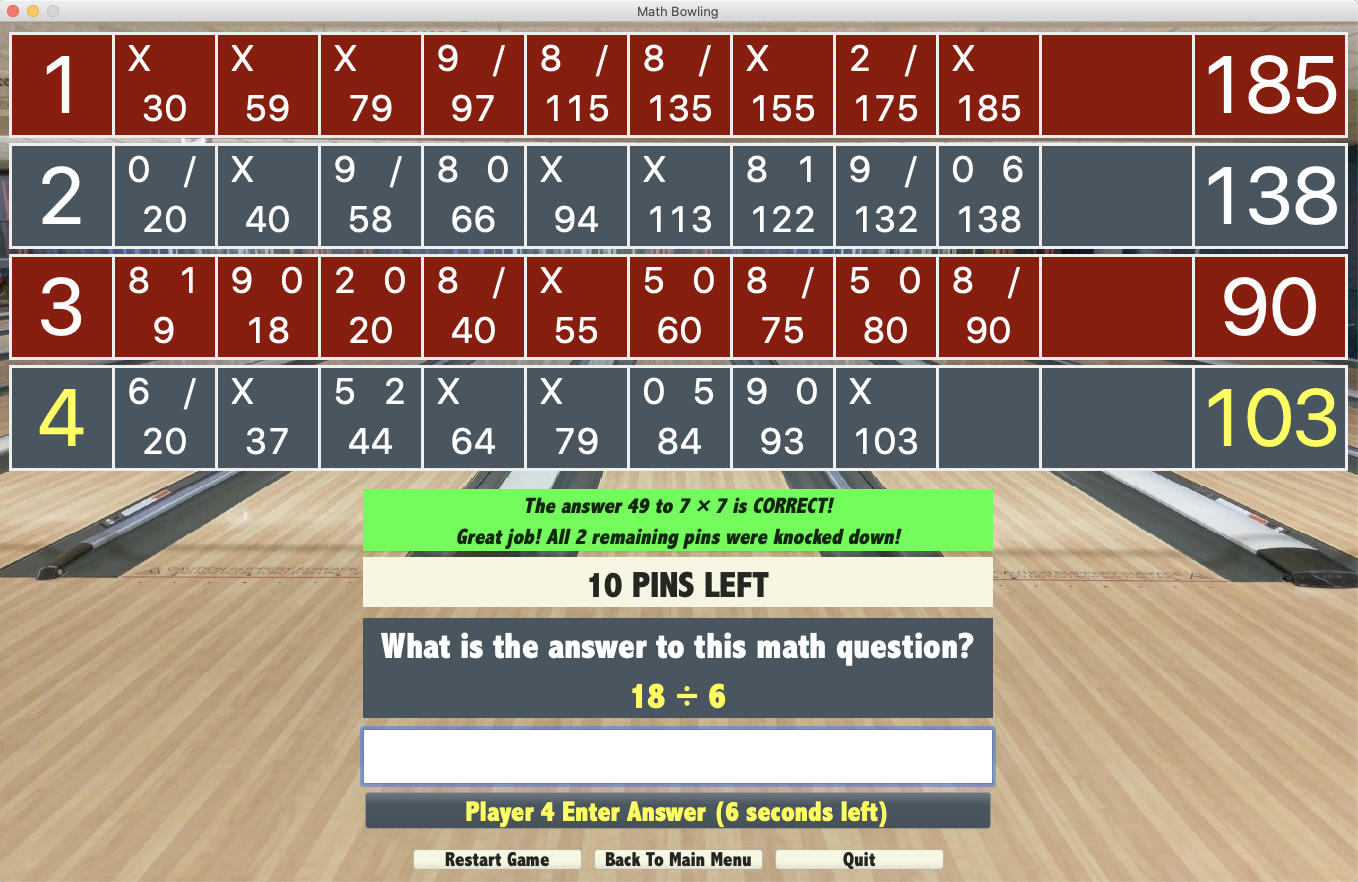
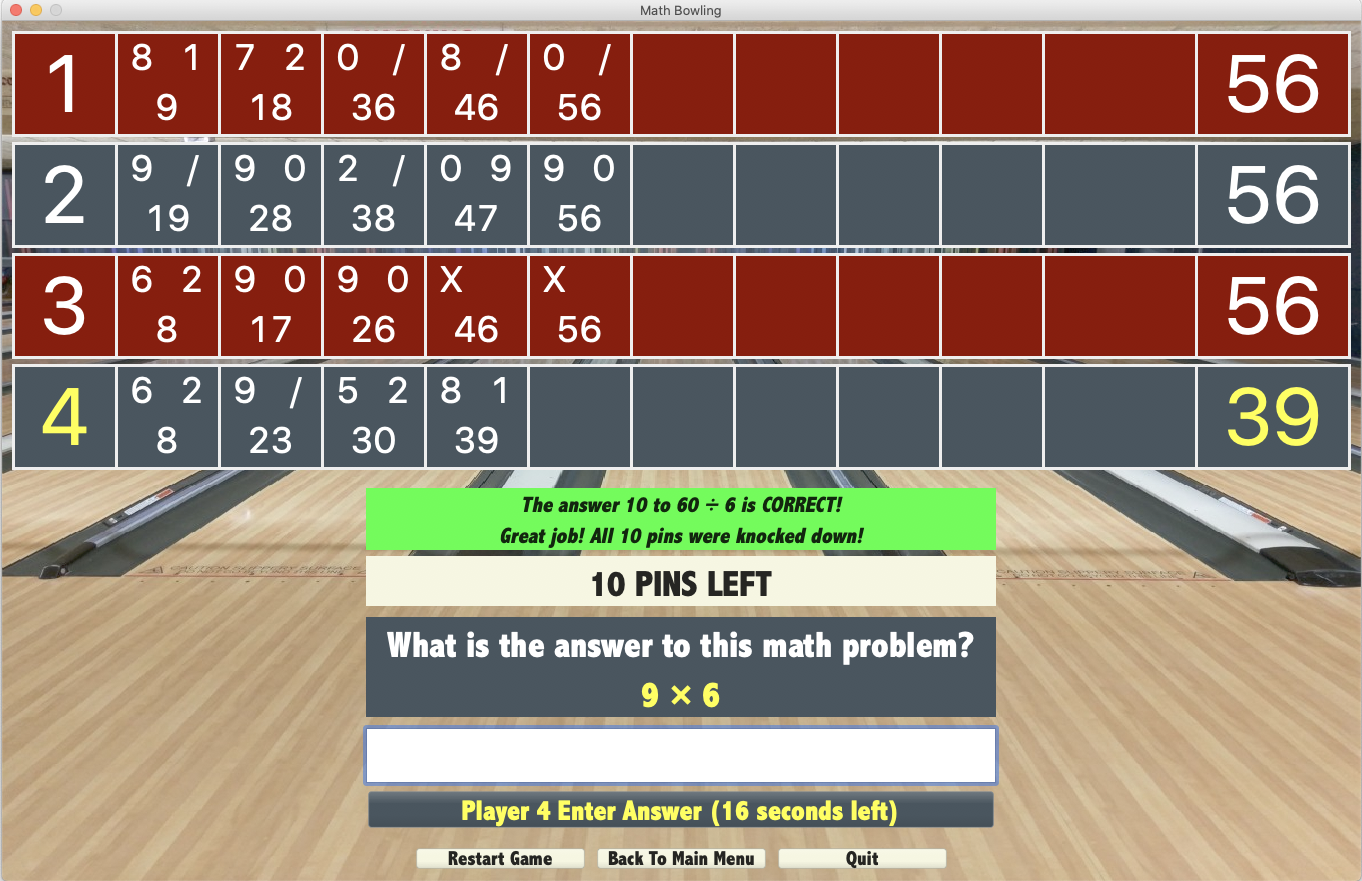
Updated wording of question to problem and extracted game rules into an HTML file since it is formatted document content

diff --git a/docs/game_rules.html b/docs/game_rules.html
@@ -1,0 +1,50 @@
+<!doctype html>
+<html>
+  <head>
+    <style>
+      body {
+        background-color: beige;
+        font-family: "Abadi MT Condensed Extra Bold";
+        color: rgb(128, 0, 0);
+        padding: 20px 40px;
+        background: radial-gradient(circle, rgba(236,205,136,1) 70%, rgba(255,255,192,1) 100%);
+        text-align: center;
+      }
+      h1 {
+        font-size: 60px;
+        margin: 0;
+      }
+      h2 {
+        font-size: 40px;
+        margin: 0;
+      }
+      ol {
+        text-align: justify;
+        font-size: 1.3em;
+        color: black;
+      }
+      li {
+        margin-bottom: 10px;
+      }
+    </style>
+  </head>
+  <body>
+    <h1>Math Bowling</h1>
+    <h2>Game Rules</h2>
+    <ol>
+      <li>On a player's turn, a math problem must be answered to initiate a bowling roll.</li>
+      <li>A player must answer math problems until filling a frame just like bowling.</li>
+      <li>Players must fill all 10 frames just like bowling to finish the game.</li>
+      <li>A player has 30 seconds to answer a math problem.</li>
+      <li>If a player does not answer on time, whatever was entered is taken as the answer. If nothing was entered, then the answer is assumed to be 0.</li>
+      <li>If an answer is correct, the player gets the equivalent of knocking all remaining pins (a strike for 10, a spare for less than 10).</li>
+      <li>If an answer is within the number of remaining pins from the correct answer, then it is considered close. The player gets the equivalent of knocked pins for that answer (e.g. answering 3 or 5 to 2 + 2 gets all remaining pins minus 1). This makes answering the next math problem more challenging just like how the second roll is often more challenging in bowling.</li>
+      <li>If an answer is farther from the correct answer than number of remaining pins, then 0 is awarded.</li>
+      <li>Players with the highest score at the end win.</li>
+      <li>If all players have the same score at the end, it is a tie.</li>
+      <li>Players are distinguished by number.</li>
+      <li>The game may be played with one player only, in which case it is always that player's turn on every bowling roll (problem answer).</li>
+    </ol>
+    Copyright (c) 2019-2020 Andy Maleh.
+  </body>
+</html>

diff --git a/app/views/math_bowling/game_rules_dialog.rb b/app/views/math_bowling/game_rules_dialog.rb
@@ -7,55 +7,7 @@ class MathBowling
         text 'Game Rules'
         minimum_size 1000, 750
         browser {
-          text <<~MULTI_LINE
-          <style>
-          body {
-            background-color: beige;
-            font-family: "Abadi MT Condensed Extra Bold";
-            color: rgb(128, 0, 0);
-            padding: 20px 40px;
-            background: radial-gradient(circle, rgba(236,205,136,1) 70%, rgba(255,255,192,1) 100%);
-          }
-          h1, h2 {
-            text-align: center;
-          }
-          h1 {
-            font-size: 60px;
-            padding-bottom: 0;
-            margin-bottom; 0;
-          }
-          h2 {
-            margin: 0;
-            padding: 0;
-            font-size: 40px;
-            margin-top: -40px;
-          }
-          ol {
-            text-align: 'justify';
-            font-size: 1.3em;
-            color: black;
-          }
-          li {
-            margin-bottom: 10px
-          }
-          </style>
-          <h1>Math Bowling</h1>
-          <h2>Game Rules</h2>
-          <ol>
-            <li>On a player's turn, a math question must be answered to initiate a bowling roll</li>
-            <li>A player must answer math questions until filling a frame just like bowling.</li>
-            <li>Players must fill all 10 frames just like bowling to finish the game.</li>
-            <li>A player has 20 seconds to answer a question</li>
-            <li>If a player does not answer on time, whatever was entered is taken as the answer. If nothing was entered, then the answer is assumed to be 0</li>
-            <li>If an answer is correct, the player gets the equivalent of knocking all remaining pins (strike for 10, spare for less than 10)</li>
-            <li>If an answer is within the number of remaining pins from the correct answer, then it is considered close. The player gets the equivalent of knocked pins for that answer (e.g. answering 3 or 5 to 2 + 2 gets all remaining pins minus 1). This makes answering the next question more challenging just like in bowling</li>
-            <li>If an answer is farther from the correct answer than number of remaining pins, then 0 is awarded.</li>
-            <li>The player with the higher score at the end wins.</li>
-            <li>If both players have the same score at the end, it is a tie.</li>
-            <li>Players are distinguished by position and color.</li>
-            <li>The game may be played with one player only, in which case it is always that player's turn on every bowling roll (question answered).</li>
-          </ol>
-          MULTI_LINE
+          text File.read(File.join(APP_ROOT, 'docs', 'game_rules.html'))
         }
       }
     }

diff --git a/app/views/math_bowling/game_view.rb b/app/views/math_bowling/game_view.rb
@@ -218,7 +218,7 @@ class MathBowling
                 label(:center) {
                   background bind(self, :player_color, computed_by: "game.current_player.index")
                   foreground :white
-                  text "What is the answer to this math question?"
+                  text "What is the answer to this math problem?"
                   font @font
                   layout_data {
                     horizontal_alignment :fill

diff --git a/config/warble.rb b/config/warble.rb
@@ -13,7 +13,7 @@ Warbler::Config.new do |config|
   # config.features = %w(gemjar)
 
   # Application directories to be included in the webapp.
-  config.dirs = %w(app config db lib script bin images fonts sounds videos)
+  config.dirs = %w(app config db lib script bin docs images fonts sounds videos)
 
   # Additional files/directories to include, above those in config.dirs
   config.includes = FileList['LICENSE.txt', 'VERSION']

diff --git a/README.md b/README.md
@@ -2,7 +2,7 @@
 
 ![Math Bowling Screenshot](images/Math-Bowling-Screenshot.png)
 
-<span style="font-size: 1.9em; position: relative; top: 5px">[<img alt="Math Bowling Logo" src="images/math-bowling-logo.png" width="40" />Download Math Bowling 1.1.0 for Mac](https://www.dropbox.com/s/d8n1jrhb915r3f1/Math%20Bowling-1.1.0.dmg?dl=0)</span>
+<span style="font-size: 1.9em; position: relative; top: 5px">[<img alt="Math Bowling Logo" src="images/math-bowling-logo.png" width="40" />Download Math Bowling 1.1.0 for Mac](https://www.dropbox.com/s/d8n1jrhb915r3f1/Math%20Bowling-1.1.0.dmg?dl=1)</span>
 
 Math Bowling is an elementary level educational math game.
 
@@ -10,18 +10,7 @@ Developed with [Glimmer](https://github.com/AndyObtiva/Glimmer) and [JRuby](http
 
 # Game Rules
 
-- On a player's turn, a math question must be answered to initiate a bowling roll
-- A player must answer math questions until filling a frame just like bowling.
-- Players must fill all 10 frames just like bowling to finish the game.
-- A player has 20 seconds to answer a question
-- If a player does not answer on time, whatever was entered is taken as the answer. If nothing was entered, then the answer is assumed to be 0
-- If an answer is correct, the player gets the equivalent of knocking all remaining pins (strike for 10, spare for less than 10)
-- If an answer is within the number of remaining pins from the correct answer, then it is considered close. The player gets the equivalent of knocked pins for that answer (e.g. answering 3 or 5 to 2 + 2 gets all remaining pins minus 1). This makes answering the next question more challenging just like in bowling
-- If an answer is farther from the correct answer than number of remaining pins, then 0 is awarded.
-- The player with the higher score at the end wins.
-- If both players have the same score at the end, it is a tie.
-- Players are distinguished by position and color.
-- The game may be played with one player only, in which case it is always that player's turn on every bowling roll (question answered).
+[Math Bowling Game Rules](http://AndyObtiva.github.io/MathBowling/game_rules.html)
 
 # Use Cases
 
@@ -29,17 +18,18 @@ Developed with [Glimmer](https://github.com/AndyObtiva/Glimmer) and [JRuby](http
 1. Start 2 Player Game
 1. Start 3 Player Game
 1. Start 4 Player Game
-1. Exit Game
-1. Answer Question
+1. Answer Math Problem
 1. Restart Game
 1. Change Player Count
+1. Read Game Rules
+1. Quit Game
 
 # User Stories / Release Plan
 
 [DONE] 0.1.0 Alpha 1 Release:
 
 1. [DONE] Start game
-1. [DONE] Bowl with simple math question and fixed time limit
+1. [DONE] Bowl with simple math problem and fixed time limit
 
 [DONE] 0.2.0 Alpha 2 Release:
 
@@ -58,7 +48,7 @@ Developed with [Glimmer](https://github.com/AndyObtiva/Glimmer) and [JRuby](http
 [DONE] 0.9.1 Beta 2 Release:
 
 1. [DONE] Center windows
-1. [DONE] Add question answering time limit
+1. [DONE] Add problem answering time limit
 
 [DONE] 0.9.2 Beta 3 Release ([download](https://1drv.ms/u/s!As1vHoYfypJ0gZcDaUq46wxUD1eSoA?e=2ccsHF)):
 
@@ -73,17 +63,17 @@ Developed with [Glimmer](https://github.com/AndyObtiva/Glimmer) and [JRuby](http
 [DONE] 1.0.0 Release ([download](https://1drv.ms/u/s!As1vHoYfypJ0gZdcxapMZPTQIWKRYA?e=J4sWjN)):
 
 1. [DONE] Adjust Time To Answer from 20 to 30 seconds
-1. [DONE] Highlight current player question with player color
+1. [DONE] Highlight current player problem with player color
 1. [DONE] End of Game Winner Announcement
 1. [DONE] Input Validation (positive integers only and limited to 3 digits)
 1. [DONE] Menu Options
 1. [DONE] Icon/Background for MacOS Package
 
-[DONE] 1.1.0 Release ([download](https://www.dropbox.com/s/d8n1jrhb915r3f1/Math%20Bowling-1.1.0.dmg?dl=0)):
+[DONE] 1.1.0 Release ([download](https://www.dropbox.com/s/d8n1jrhb915r3f1/Math%20Bowling-1.1.0.dmg?dl=1)):
 1. [DONE] Fix issue with game font not showing up on some older Macs
 1. [DONE] Fix video scrollbar issue on some older Macs
 1. [DONE] Improve wording of buttons and answer result announcements
-1. [DONE] Improve difficulty of questions
+1. [DONE] Improve difficulty of math problems
 1. [DONE] Spare shot video
 1. [DONE] Multiple videos for each scoring type
 1. [DONE] Improve clarity of switching player turns
@@ -91,7 +81,7 @@ Developed with [Glimmer](https://github.com/AndyObtiva/Glimmer) and [JRuby](http
 2.0.0 Release:
 
 1. Fix odd layout issues on some older Macs
-1. Multiple difficulties (Easy, Medium, Hard) with more difficult questions and shorter answer time
+1. Multiple difficulties (Easy, Medium, Hard) with more difficult math problems and shorter answer time
 1. Players can choose unique player color to distinguish themselves
 1. Players may enter name
 
